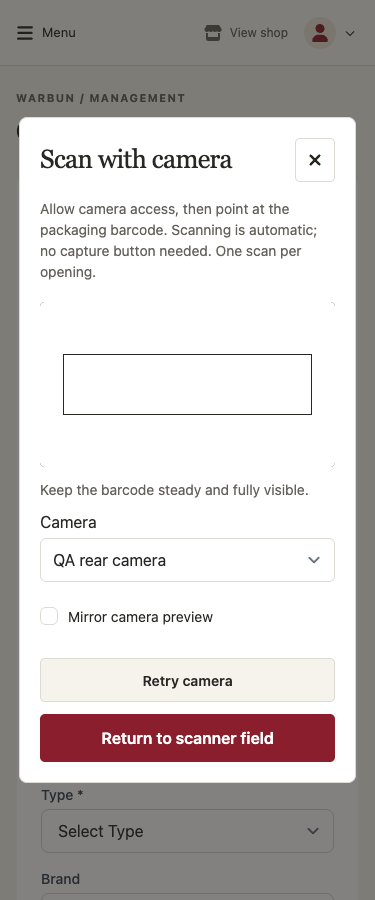
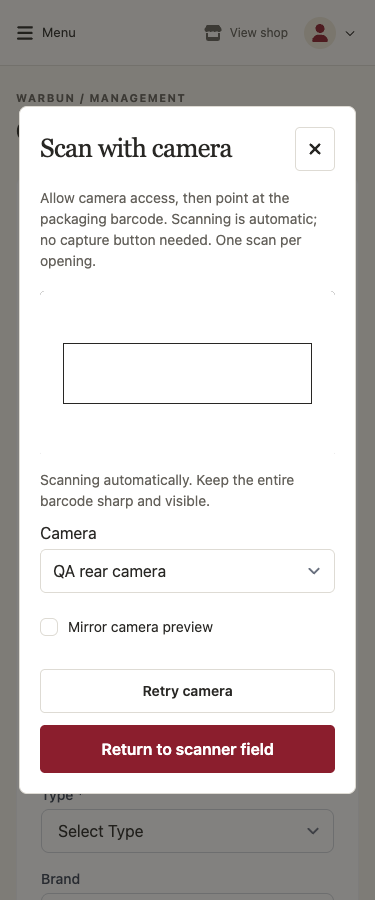
Improve camera barcode search and unreadable scan guidance

diff --git a/resources/js/barcode-camera.js b/resources/js/barcode-camera.js
@@ -18,11 +18,13 @@ if (dialog) {
     let version = 0;
     let stream;
     let controls;
+    let guidanceTimer;
     let opener;
     let returnFocus;
 
     function stop() {
         version++;
+        clearTimeout(guidanceTimer);
         controls?.stop();
         controls = null;
         stream?.getTracks().forEach(track => track.stop());
@@ -59,12 +61,22 @@ if (dialog) {
         try {
             if (!window.isSecureContext) throw Object.assign(new Error(), {cameraMessage:labels.insecure});
             if (!navigator.mediaDevices?.getUserMedia) throw Object.assign(new Error(), {cameraMessage:labels.unsupported});
-            const acquired = await navigator.mediaDevices.getUserMedia({audio:false, video:{...(deviceId ? {deviceId:{exact:deviceId}} : {facingMode:{ideal:'environment'}}), width:{ideal:1280}, height:{ideal:720}}});
+            const acquired = await navigator.mediaDevices.getUserMedia({audio:false, video:{...(deviceId ? {deviceId:{exact:deviceId}} : {facingMode:{ideal:'environment'}}), width:{ideal:1920}, height:{ideal:1080}}});
             if (attempt !== version || !dialog.open) { acquired.getTracks().forEach(track=>track.stop()); return; }
             stream = acquired;
-            const {BrowserMultiFormatOneDReader} = await import('@zxing/browser');
+            const track = acquired.getVideoTracks()[0];
+            try {
+                if (track.getCapabilities?.().focusMode?.includes('continuous')) {
+                    await track.applyConstraints({advanced:[{focusMode:'continuous'}]});
+                }
+            } catch {}
             if (attempt !== version || !dialog.open) return;
-            const reader = new BrowserMultiFormatOneDReader(undefined, {delayBetweenScanAttempts:200, delayBetweenScanSuccess:500});
+            const [{BrowserMultiFormatOneDReader}, {default:DecodeHintType}] = await Promise.all([
+                import('@zxing/browser'), import('@zxing/library/esm/core/DecodeHintType'),
+            ]);
+            if (attempt !== version || !dialog.open) return;
+            const hints = new Map([[DecodeHintType.TRY_HARDER, true]]);
+            const reader = new BrowserMultiFormatOneDReader(hints, {delayBetweenScanAttempts:300, delayBetweenScanSuccess:500});
             const scanning = await reader.decodeFromStream(acquired, preview, (result, failure, scanner) => {
                 if (!result || detected || attempt !== version || !dialog.open) return;
                 const barcode = result.getText().trim();
@@ -88,6 +100,9 @@ if (dialog) {
             if (attempt !== version || !dialog.open) { scanning.stop(); return; }
             controls = scanning;
             status.textContent = labels.scanning;
+            guidanceTimer = setTimeout(() => {
+                if (attempt === version && dialog.open && !detected) status.textContent = labels.guidance;
+            }, 6000);
             const cameras = navigator.mediaDevices.enumerateDevices ? await navigator.mediaDevices.enumerateDevices().catch(()=>[]) : [];
             if (attempt !== version || !dialog.open) return;
             const current = acquired.getVideoTracks()[0]?.getSettings().deviceId;

diff --git a/resources/views/components/barcode-camera.blade.php b/resources/views/components/barcode-camera.blade.php
@@ -8,7 +8,8 @@
     <div class="barcode-camera-footer"><button id="retryBarcodeCamera" type="button" class="button-secondary">{{ __('Retry camera') }}</button><button id="cancelBarcodeCamera" type="button" class="button-primary">{{ __('Return to scanner field') }}</button></div>
 </dialog>
 <script id="barcode-camera-config" type="application/json">{!! json_encode([
-    'permission'=>__('Waiting for camera permission...'), 'scanning'=>__('Keep the barcode steady and fully visible.'),
+    'permission'=>__('Waiting for camera permission...'), 'scanning'=>__('Scanning automatically. Keep the entire barcode sharp and visible.'),
+    'guidance'=>__('Not read yet. Move the package slightly farther away until the bars look sharp, keep it flat, and avoid glare. Try the back camera or enter the barcode manually.'),
     'insecure'=>__('Camera scanning needs HTTPS or localhost. Use the hardware scanner or type the barcode on this connection.'),
     'unsupported'=>__('This browser cannot access a camera. Use the hardware scanner or type the barcode.'),
     'denied'=>__('Camera permission was denied. Allow camera access in browser settings, then retry.'),

diff --git a/CAMERA_BARCODE_QA.md b/CAMERA_BARCODE_QA.md
@@ -4,9 +4,13 @@
 
 ## Bukti
 
+Update kasus scan tidak terbaca: **15 skenario kamera PASS**, termasuk barcode Code 128 berwarna biru pada bagian atas frame yang dibaca decoder production dan petunjuk setelah enam detik tanpa hasil, sementara kamera tetap berjalan. Request continuous focus diverifikasi dengan mock capability/constraint; tidak membuktikan autofocus webcam fisik. Ideal resolution ditingkatkan, tidak dijamin tersedia pada device. Build, JS syntax, scoped Pint dan diff check PASS; lima viewport tetap diuji. Baseline backend/receipt tidak diulang karena tidak ada perubahan logika server.
+
+Screenshot pengguna 544×415 diuji melalui [runner foto](scripts/qa-camera-photo.cjs), tanpa menyimpan foto ke repository. Decoder production tanpa maupun dengan TRY_HARDER **tidak membaca gambar tersebut**. Diagnosis awal juga mencoba crop, skala dan channel luminance melalui library, tanpa hasil. Blur/perspective/kemasan adalah kemungkinan dari gambar, bukan penyebab yang sudah terbukti. Perubahan ini memperluas pencarian dan memberi bantuan; bukan klaim foto atau webcam pengguna telah berhasil dibaca.
+
 Update mirror: **13 skenario kamera PASS** dijalankan ulang setelah perubahan, termasuk keyboard Space pada checkbox, preview horizontal terbalik tanpa request kamera baru, camera switch, pilihan tersimpan saat Retry/navigation, toggle off dan decoding Code 128/EAN-13 ketika mirror aktif. Lima lebar tetap tanpa overflow; build production, syntax JS, scoped Pint dan diff check PASS. Full backend suite 97/799 dan tujuh skenario checkout/receipt di bawah adalah baseline fitur kamera sebelumnya, tidak diulang untuk perubahan preview ini. Storage-blocked browser dan kamera fisik tidak diuji pada update ini.
 
-- [Runner kamera](scripts/qa-camera.cjs), [hasil](docs/qa/camera-results.json): **13 skenario PASS**. Chrome menerima synthetic `MediaStream` dari canvas, dengan barcode Code 128/EAN-13 valid. Decoder ZXing production sungguhan memproses frame video; hasil decode tidak dimock. Kasus ini tidak menguji webcam fisik.
+- [Runner kamera](scripts/qa-camera.cjs), [hasil](docs/qa/camera-results.json): **15 skenario PASS**. Chrome menerima synthetic `MediaStream` dari canvas, dengan barcode Code 128/EAN-13 valid. Decoder ZXing production sungguhan memproses frame video; hasil decode tidak dimock. Kasus ini tidak menguji webcam fisik.
 - Edit membaca Code 128 `0012345678905`, mempertahankan nol, tidak auto-save, menghentikan track lalu menyimpan lewat controller existing. Create membaca EAN-13 `5901234123457`; duplicate barcode ditolak server, barcode unique dapat disimpan. Hardware Enter pada form tidak submit.
 - Izin ditolak, kamera tidak ditemukan, kamera sibuk, Retry, preferensi belakang/no audio, pilihan device, Escape, izin yang selesai setelah Close, reopen saat inisialisasi video tertunda, dan backgrounding diuji dengan mock API kamera. Semua track yang diperoleh berakhir `ended` setelah penutupan/success.
 - POS memblokir kamera tanpa shift, memasukkan satu unit per pembukaan, mendukung pembukaan ulang dan scan keyboard pada lookup/keranjang yang sama. Barcode 404 menjaga quantity lama. Kamera tidak otomatis dibuka saat halaman dimuat; chunk decoder baru dimuat setelah permintaan kamera.

diff --git a/DESIGN_SYSTEM.md b/DESIGN_SYSTEM.md
@@ -68,6 +68,8 @@ Font Awesome Free 6.7.2 Solid icons are served from a local SVG sprite. The shar
 
 ## Camera and hardware barcode scanning
 
+Scan recovery uses the existing live status instead of adding a capture button. After six seconds without a read, short distance/focus/glare advice replaces the initial message while video scanning continues. This makes a waiting scanner actionable without implying a blurry frame can always be decoded; no extra decorative controls or colors are introduced.
+
 The mirror checkbox lets operators choose a familiar preview orientation, especially on front-facing cameras. A native labeled 44px target supports touch and keyboard; it sits beside device controls, outside the video guide. Horizontal reflection applies only to the video preview, with no decorative animation or camera restart. The saved browser preference survives device changes and page navigation; help states that scanning is automatic so operators do not search for a capture button.
 
 ENERGY 2 / RHYTHM 3 / MOTION 1 continues the accepted retail direction. Two labeled controls distinguish keyboard hardware from the device camera. A native dialog puts actual video beside short permission/error feedback, camera selection and an explicit return action. Its guide frame helps align horizontal packaging barcodes; the media surface is real camera content, not a decorative dark theme. Burgundy marks Return, neutral borders mark secondary camera actions, and existing type/radius/spacing match product and customer dialogs. Controls wrap on phones; product editor fields become one column below 640px. Font Awesome camera/barcode paths extend the existing licensed sprite. One result per opening avoids quantity mistakes, and Escape/page-hidden teardown makes the camera lifecycle visible and predictable. Evidence and delivery gate: [CAMERA_BARCODE_QA.md](CAMERA_BARCODE_QA.md).

diff --git a/CAMERA_BARCODE.md b/CAMERA_BARCODE.md
@@ -18,6 +18,8 @@ Browser memerlukan secure context untuk kamera: **HTTPS**, atau **localhost/127.
 
 ## Preview yang dijalankan
 
+Scanner meminta resolusi ideal 1920×1080 dan mencoba continuous autofocus hanya jika track menyatakan dukungan. Ini permintaan, bukan jaminan kualitas kamera. Decoder menggunakan `TRY_HARDER` untuk mencari lebih banyak baris daripada area tengah bawaan ([kode ZXing](https://github.com/zxing-js/library/blob/master/src/core/oned/OneDReader.ts)). Jika belum terbaca setelah enam detik, status memberi petunjuk fokus/jarak/pantulan; scan tetap berjalan. Barcode buram, berkerut, tertutup atau terpotong masih dapat gagal. Jauhkan kemasan sedikit hingga garis tajam, ratakan dan pilih kamera belakang bila tersedia; hardware/manual tetap dapat dipakai.
+
 Preview saat pengerjaan berjalan di `http://127.0.0.1:8080`, memakai SQLite demo terpisah di directory sementara `warbun-qa-preview-*`. Login `admin@warbun.local` atau `owner@warbun.local`, password `password`. `.env` dan MySQL operasional tidak diubah; MySQL lokal masih tidak tersedia. Preview sudah mempunyai dataset produk dan etalase contoh. Database/browser test memakai port 8765 dan database lain, sehingga transaksi QA tidak masuk preview pengguna.
 
 Preview ini merupakan proses development yang sedang berjalan, bukan deployment. [QA kamera](CAMERA_BARCODE_QA.md) menjelaskan uji decoding dan batas pengujian perangkat fisik.

diff --git a/QA_REPORT.md b/QA_REPORT.md
@@ -1,5 +1,7 @@
 # Warbun — QA development
 
+Latest scan recovery update: 15 synthetic-camera scenarios PASS, including blue off-center barcode and ongoing-scan guidance after six seconds. Conditional focus request uses mocked camera capabilities. Build, JS syntax, scoped Pint and responsive checks PASS. The user's still screenshot remains undecodable with both production configurations; live device resolution/focus is not verified. Evidence: [CAMERA_BARCODE_QA.md](CAMERA_BARCODE_QA.md).
+
 Latest mirror preview update: 13 camera browser scenarios PASS with keyboard toggle, persisted preference, camera switching and real Code 128/EAN-13 decoding while mirrored. Five-width layouts, build, JS syntax, scoped Pint and diff check PASS. Backend/checkout results below remain the previous baseline; no backend logic changed. Evidence: [CAMERA_BARCODE_QA.md](CAMERA_BARCODE_QA.md).
 
 Latest camera/hardware scan: [CAMERA_BARCODE_QA.md](CAMERA_BARCODE_QA.md), [usage/preview](CAMERA_BARCODE.md). Full 97 tests / 799 assertions, 12 synthetic-camera browser scenarios, build and pinned dependency install PASS. Real Code 128/EAN-13 video decoding, product validation, one-scan POS, permission/stream teardown and five-width layouts verified. Physical device testing remains outside this evidence.

diff --git a/tasklist.md b/tasklist.md
@@ -67,6 +67,7 @@ Source requirement: [PRD.md](PRD.md). Implementation decisions: [ARCHITECTURE.md
 
 - [x] Pilihan hardware/kamera pada POS dan form tambah/edit produk
 - [x] Toggle mirror preview tersimpan, keyboard/device/retry/navigation dan deteksi otomatis saat mirror diuji
+- [x] Pencarian baris diperluas, request fokus kondisional dan guidance scan belum berhasil; 15 skenario kamera dan screenshot pengguna diuji dengan batas hasil terdokumentasi
 - [x] Decoder lokal, pemilihan kamera, satu hasil, cleanup permission/modal/visibility
 - [x] Antrean scan kasir existing, barcode input tanpa auto-save dan validation unique
 - [x] 12 skenario kamera simulasi, real decoding Code 128/EAN-13, responsive dan regression backend
